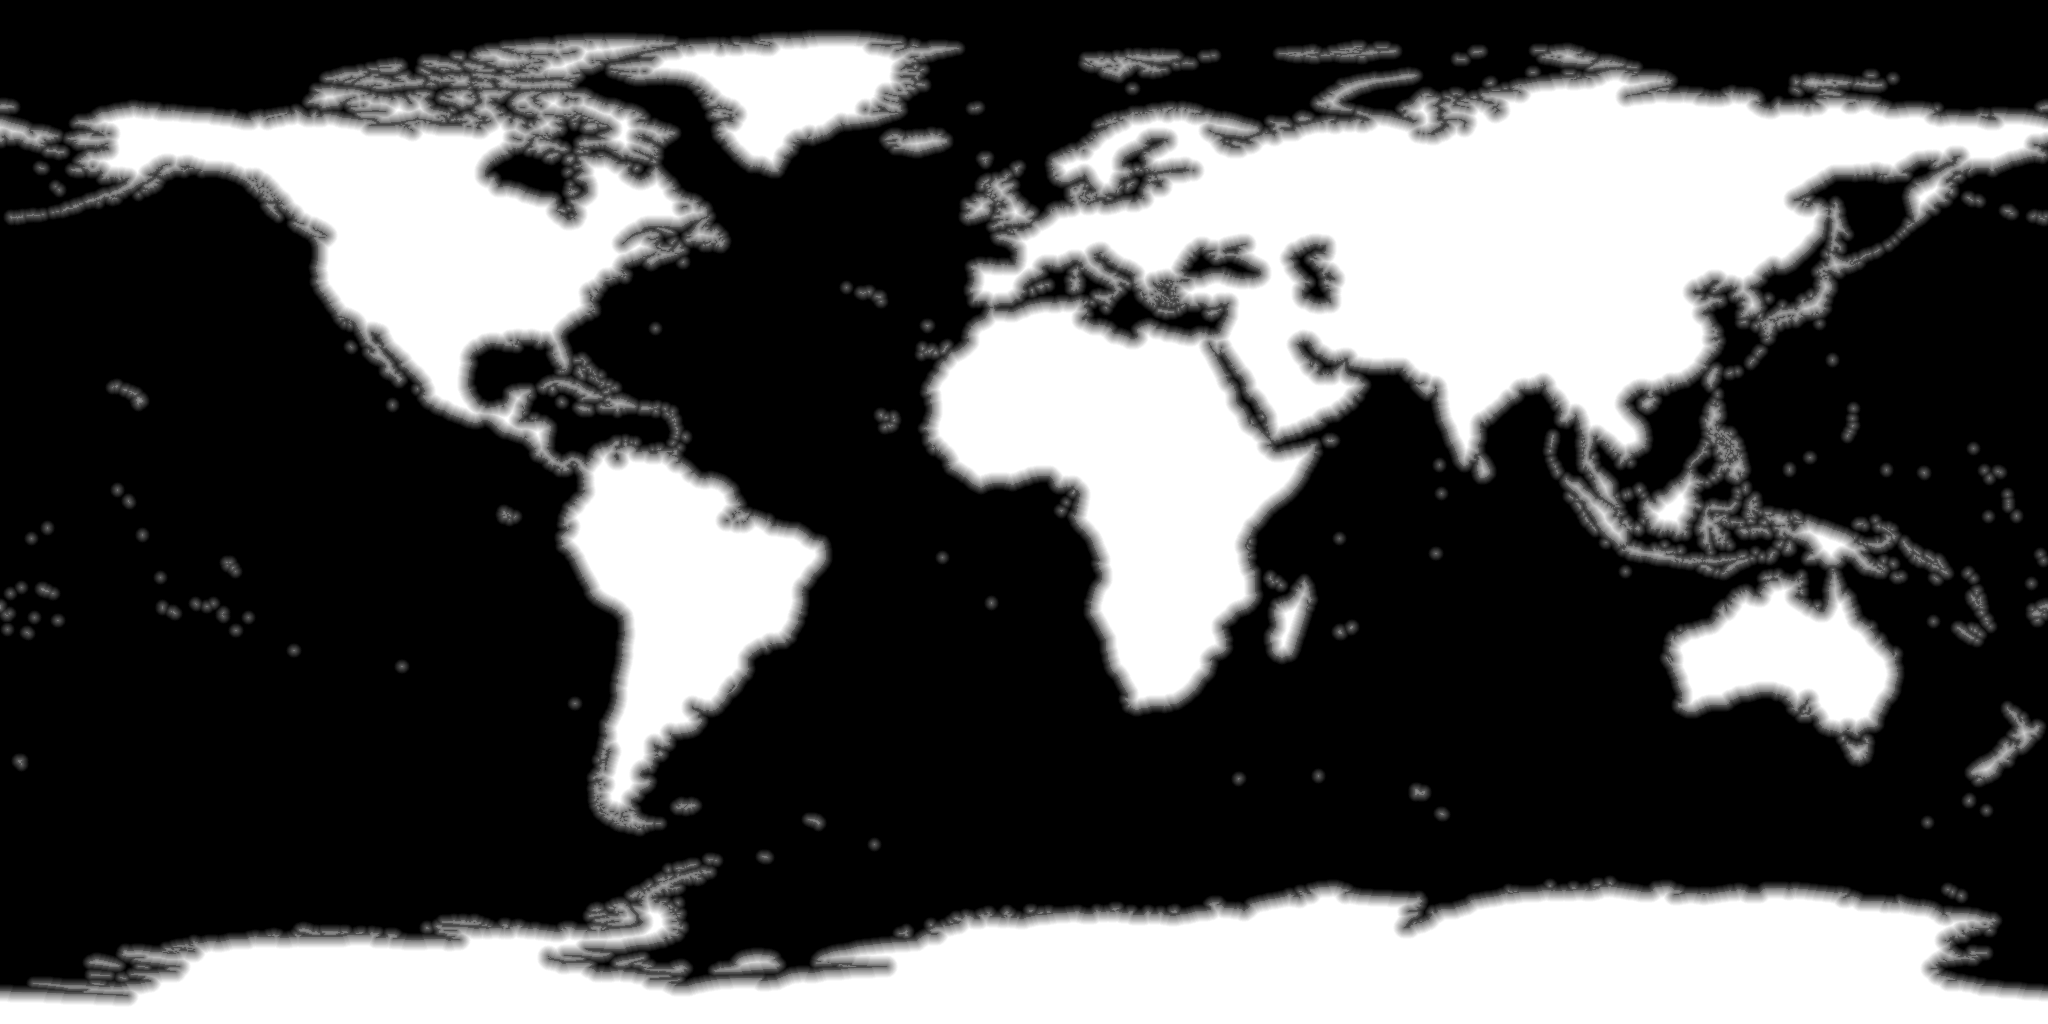
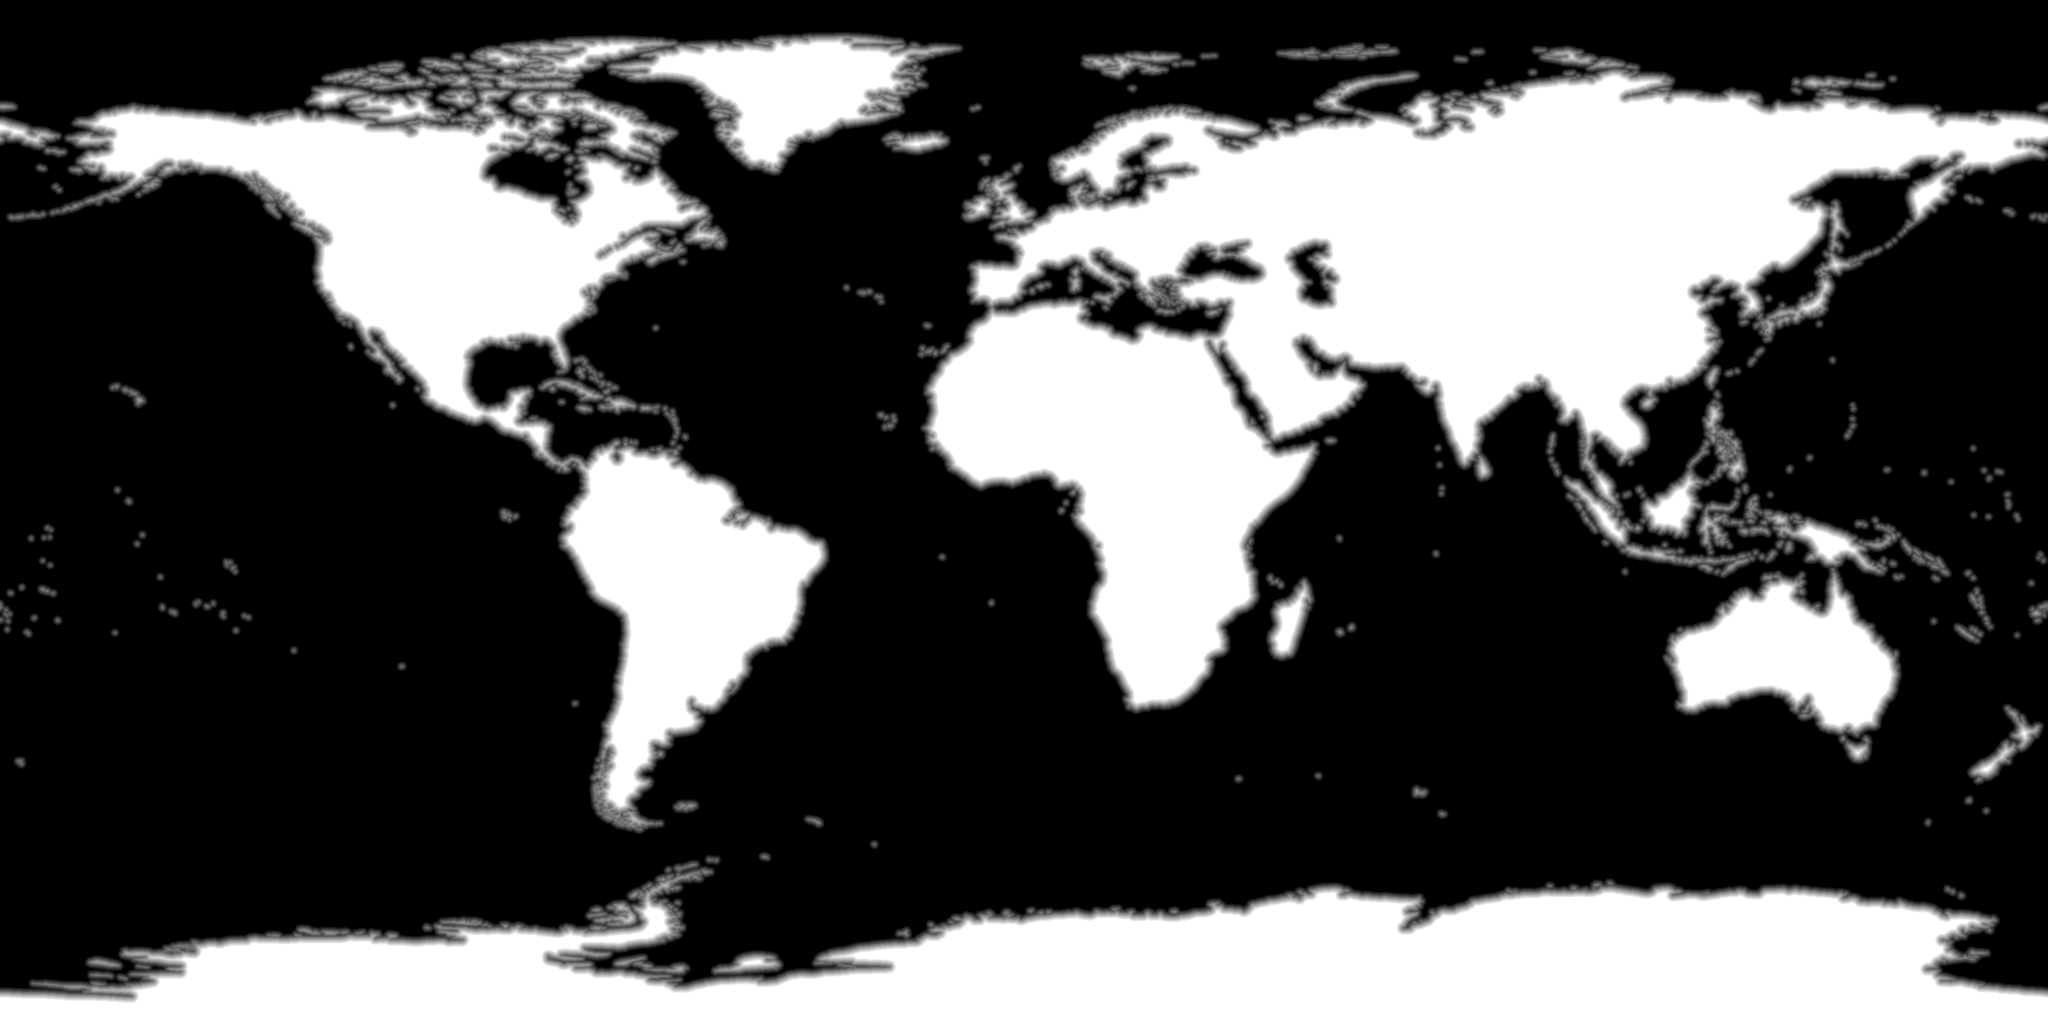
Remove white coastline/horizon outline and add bicubic polar smoothing on hero globe

diff --git a/assets/js/globe.js b/assets/js/globe.js
@@ -1,8 +1,9 @@
-// A1: 실시간 하이엔드 WebGL 지구본
+// 첫 화면 WHO 협력센터 장면: 실시간 WebGL 3D 지구본 (백금 실버-슬레이트 대륙 · 미드나잇 네이비 바다 · 서울 금색 포인트)
+// 장면이 나타날 때 4초 동안 38도를 부드럽게 돌아 자리를 잡고 멈추며, 화면 밖 · 탭 숨김 · '동작 줄이기' 설정에서는 즉시 멈춘다.
 const slide = document.querySelector(".slide--globe");
-if (slide) startGlobeA(slide);
+if (slide) startGlobe(slide);
 
-function startGlobeA(slide) {
+function startGlobe(slide) {
   const CFG = {
     lonRest: 115.0,
     latTilt: 20.0,
@@ -39,6 +40,8 @@ function startGlobeA(slide) {
     uniform float uReady;
 
     const float PI = 3.14159265359;
+    const vec2 TEX_SIZE = vec2(2048.0, 1024.0);
+    const vec2 INV_TEX  = vec2(1.0 / 2048.0, 1.0 / 1024.0);
 
     vec2 camToLonLat(vec3 n) {
       float cl = cos(uAngles.y), sl = sin(uAngles.y);
@@ -50,10 +53,33 @@ function startGlobeA(slide) {
       return vec2(lon, lat);
     }
 
-    float sampleSdf(vec2 lonLat) {
-      float u = fract(lonLat.x / (2.0 * PI) + 0.5);
-      float v = clamp(0.5 - lonLat.y / PI, 0.001, 0.999);
-      return texture2D(uSdf, vec2(u, v)).r;
+    // 4-tap Bicubic B-spline texture lookup: C2 continuous curves even at extreme polar grazing angles
+    float sampleSdfBicubic(vec2 lonLat) {
+      vec2 uv = vec2(fract(lonLat.x / (2.0 * PI) + 0.5), clamp(0.5 - lonLat.y / PI, 0.001, 0.999));
+      vec2 coord = uv * TEX_SIZE - 0.5;
+      vec2 idx = floor(coord);
+      vec2 f = coord - idx;
+      vec2 f2 = f * f;
+      vec2 f3 = f2 * f;
+
+      vec2 w0 = (1.0 - f) * (1.0 - f) * (1.0 - f) / 6.0;
+      vec2 w1 = (3.0 * f3 - 6.0 * f2 + 4.0) / 6.0;
+      vec2 w2 = (-3.0 * f3 + 3.0 * f2 + 3.0 * f + 1.0) / 6.0;
+      vec2 w3 = f3 / 6.0;
+
+      vec2 g0 = w0 + w1;
+      vec2 g1 = w2 + w3;
+      vec2 h0 = ((idx + (w1 / g0) + 0.5) * INV_TEX);
+      vec2 h1 = ((idx + 2.0 + (w3 / g1) + 0.5) * INV_TEX);
+
+      float s00 = texture2D(uSdf, vec2(h0.x, h0.y)).r;
+      float s10 = texture2D(uSdf, vec2(h1.x, h0.y)).r;
+      float s01 = texture2D(uSdf, vec2(h0.x, h1.y)).r;
+      float s11 = texture2D(uSdf, vec2(h1.x, h1.y)).r;
+
+      float sx0 = mix(s10, s00, g0.x);
+      float sx1 = mix(s11, s01, g0.x);
+      return mix(sx1, sx0, g0.y);
     }
 
     void main() {
@@ -62,25 +88,23 @@ function startGlobeA(slide) {
       float r2 = dot(d, d);
       float r = sqrt(r2);
 
-      vec3 L = normalize(vec3(-0.52, 0.56, 0.64));
+      vec3 L = normalize(vec3(-0.50, 0.55, 0.67));
       vec2 limbDir = r > 1e-4 ? d / r : vec2(0.0, -1.0);
-      float sunSide = clamp(dot(vec3(limbDir.x, -limbDir.y, 0.25), L) * 0.65 + 0.45, 0.0, 1.0);
+      float sunSide = clamp(dot(vec3(limbDir.x, -limbDir.y, 0.25), L) * 0.65 + 0.40, 0.0, 1.0);
 
-      vec3 goldAtmo = vec3(0.885, 0.915, 0.968);
-      vec3 navyAtmo = vec3(0.150, 0.245, 0.415);
-      vec3 haloCol = mix(navyAtmo, goldAtmo, pow(sunSide, 1.35));
+      // Soft, deep navy-slate atmospheric halo (NO white halo!)
+      vec3 haloCol = mix(vec3(0.08, 0.15, 0.28), vec3(0.22, 0.35, 0.56), pow(sunSide, 1.4));
 
-      if (r > 1.22) {
+      if (r > 1.18) {
         gl_FragColor = vec4(0.0);
         return;
       }
 
-      float outerFalloff = exp(-max(r - 1.0, 0.0) * 18.0);
-      float outerAlpha = outerFalloff * (0.25 * sunSide + 0.075);
+      float outerFalloff = exp(-max(r - 1.0, 0.0) * 22.0);
+      float outerAlpha = outerFalloff * (0.16 * sunSide + 0.04);
 
       if (r >= 1.0) {
-        float edgeAA = smoothstep(1.0, 0.9965, r);
-        gl_FragColor = vec4(haloCol, outerAlpha * (1.0 - edgeAA));
+        gl_FragColor = vec4(haloCol, outerAlpha);
         return;
       }
 
@@ -89,76 +113,66 @@ function startGlobeA(slide) {
       vec3 V = vec3(0.0, 0.0, 1.0);
 
       vec2 ll = camToLonLat(N);
-      float raw = uReady > 0.5 ? sampleSdf(ll) : 0.0;
-      float sdfPx = (raw - 0.40) * 20.0;
+      // Exact coastline is 5.0 / 12.0 = 0.4166667
+      float raw = uReady > 0.5 ? sampleSdfBicubic(ll) : 0.0;
+      float sdfTex = (raw - 0.4166667) * 12.0;
 
-      // Subtle coastal bevel relief
-      float eps = 0.0017;
-      float sx = uReady > 0.5 ? sampleSdf(ll + vec2(eps / max(cos(ll.y), 0.18), 0.0)) - raw : 0.0;
-      float sy = uReady > 0.5 ? sampleSdf(ll + vec2(0.0, eps)) - raw : 0.0;
-      vec3 bevelN = normalize(N + vec3(-sx * 3.0, -sy * 3.0, 0.0));
+      // Convert texel SDF to local spherical surface distance (correcting equirectangular polar stretch!)
+      float cosLat = max(cos(ll.y), 0.18);
+      float dAng = 1.0 / (uGlobe.z * max(z, 0.14));
+      float aa = clamp((2048.0 / 6.2831853) * dAng / pow(cosLat, 0.55), 0.55, 2.4);
+
+      // Clean, borderless anti-aliased land mask (NO white outline!)
+      float land = smoothstep(-aa * 0.70, aa * 0.70, sdfTex) * step(0.5, uReady);
+      float shelf = smoothstep(-3.8, 0.0, sdfTex) * (1.0 - land) * step(0.5, uReady);
+      float inland = smoothstep(0.0, 4.5, sdfTex);
 
       float diff = clamp(dot(N, L), 0.0, 1.0);
-      float bevelDiff = clamp(dot(bevelN, L), 0.0, 1.0);
 
-      float dAng = 1.0 / (uGlobe.z * max(z, 0.16));
-      float aa = clamp(2048.0 / 6.2831853 * dAng, 0.55, 2.2);
-      float land = smoothstep(-aa * 0.65, aa * 0.65, sdfPx);
-      float shelf = smoothstep(-5.5, 0.0, sdfPx) * (1.0 - land);
-      // Coastal luminosity rim inside continents: slightly brighter near coasts, calm velvet toward deep interior
-      float coastRimGlow = exp(-max(sdfPx, 0.0) * 0.28);
-
-      // Ocean
-      vec3 oceanShadow = vec3(0.024, 0.048, 0.100);
-      vec3 oceanMid    = vec3(0.046, 0.092, 0.178);
-      vec3 oceanLit    = vec3(0.078, 0.148, 0.270);
-      vec3 oceanCol = mix(oceanShadow, oceanMid, smoothstep(0.0, 0.48, diff));
+      // Deep midnight navy ocean
+      vec3 oceanShadow = vec3(0.022, 0.045, 0.096);
+      vec3 oceanMid    = vec3(0.044, 0.088, 0.172);
+      vec3 oceanLit    = vec3(0.074, 0.142, 0.262);
+      vec3 oceanCol = mix(oceanShadow, oceanMid, smoothstep(0.0, 0.50, diff));
       oceanCol = mix(oceanCol, oceanLit, pow(diff, 1.6));
-      oceanCol += vec3(0.025, 0.042, 0.072) * shelf * (0.35 + 0.65 * diff);
+      oceanCol += vec3(0.018, 0.034, 0.062) * shelf * (0.35 + 0.65 * diff);
 
       vec3 Hvec = normalize(L + V);
-      float oceanSpec = pow(max(dot(N, Hvec), 0.0), 28.0) * 0.075;
-      oceanCol += vec3(0.86, 0.90, 0.97) * oceanSpec;
+      float oceanSpec = pow(max(dot(N, Hvec), 0.0), 26.0) * 0.055;
+      oceanCol += vec3(0.55, 0.68, 0.88) * oceanSpec;
 
-      // Continents: refined architectural relief + subtle silk micro-grid (watch-dial guilloche feel)
-      float micro = 0.965 + 0.035 * sin(ll.y * 540.0) * cos(ll.x * 540.0 * max(cos(ll.y), 0.2));
-      vec3 landShadow = vec3(0.165, 0.215, 0.305);
-      vec3 landMid    = vec3(0.345, 0.415, 0.525);
-      vec3 landHi     = vec3(0.615, 0.685, 0.785);
-      vec3 landCol = mix(landShadow, landMid, 0.28 + 0.58 * smoothstep(0.0, 0.80, bevelDiff));
-      landCol = mix(landCol, landHi, (pow(bevelDiff, 1.95) * 0.46 + coastRimGlow * 0.24 * (0.35 + 0.65 * diff)));
-      landCol *= micro;
+      // Smooth satin steel-silver continents (borderless, zero moire, zero white halo)
+      vec3 landShadow = vec3(0.125, 0.178, 0.275);
+      vec3 landMid    = vec3(0.255, 0.335, 0.455);
+      vec3 landHi     = vec3(0.455, 0.545, 0.668);
+      vec3 landCol = mix(landShadow, landMid, 0.26 + 0.62 * smoothstep(0.0, 0.82, diff));
+      landCol = mix(landCol, landHi, pow(diff, 1.85) * 0.48);
+      // Very gentle interior depth (no outline!)
+      landCol *= (0.96 + 0.04 * inland);
 
       vec3 surf = mix(oceanCol, landCol, land);
 
-      // Crisp 1px shoreline highlight
-      float coastLine = 1.0 - smoothstep(0.0, aa * 1.22, abs(sdfPx));
-      vec3 coastCol = mix(vec3(0.68, 0.75, 0.85), vec3(0.96, 0.98, 1.00), smoothstep(0.05, 0.85, diff));
-      surf = mix(surf, coastCol, coastLine * (0.46 + 0.42 * diff) * step(0.5, uReady));
-
-      // Spherical graticule (15 deg)
+      // Delicate spherical graticule (15 deg), fading cleanly toward poles and horizon limb
       float gLon = abs(sin(ll.x * 12.0));
       float gLat = abs(sin(ll.y * 12.0));
-      float wLon = clamp(12.0 * dAng / max(cos(ll.y), 0.15), 0.006, 0.18);
+      float wLon = clamp(12.0 * dAng / max(cosLat, 0.20), 0.006, 0.16);
       float wLat = clamp(12.0 * dAng, 0.006, 0.12);
-      float mer = (1.0 - smoothstep(0.0, wLon * 1.25, gLon)) * smoothstep(1.48, 1.15, abs(ll.y));
-      float par = 1.0 - smoothstep(0.0, wLat * 1.25, gLat);
-      float eq  = 1.0 - smoothstep(0.0, dAng * 1.55, abs(ll.y));
+      float mer = (1.0 - smoothstep(0.0, wLon * 1.25, gLon)) * smoothstep(1.42, 1.08, abs(ll.y));
+      float par = (1.0 - smoothstep(0.0, wLat * 1.25, gLat)) * smoothstep(1.46, 1.20, abs(ll.y));
+      float eq  = 1.0 - smoothstep(0.0, dAng * 1.50, abs(ll.y));
 
-      float limbFade = smoothstep(0.04, 0.38, z);
+      float limbFade = smoothstep(0.08, 0.42, z);
       float gridMask = max(mer, par) * limbFade;
-      surf = mix(surf, mix(vec3(0.75, 0.82, 0.92), vec3(0.93, 0.96, 1.00), land), gridMask * mix(0.11, 0.15, land));
-      surf = mix(surf, vec3(0.82, 0.67, 0.40), eq * limbFade * 0.30);
+      surf = mix(surf, mix(vec3(0.52, 0.64, 0.82), vec3(0.74, 0.82, 0.92), land), gridMask * mix(0.085, 0.105, land));
+      surf = mix(surf, vec3(0.79, 0.64, 0.37), eq * limbFade * 0.26);
 
-      // Fresnel atmospheric rim light
-      float fresnel = pow(1.0 - z, 3.8);
-      vec3 rimCol = mix(vec3(0.17, 0.27, 0.44), vec3(0.89, 0.92, 0.97), pow(sunSide, 1.25));
-      surf += rimCol * fresnel * (0.18 + 0.42 * sunSide);
+      // Restrained navy-blue Fresnel atmosphere (NO white border line!)
+      float fresnel = pow(1.0 - z, 4.2);
+      vec3 rimCol = mix(vec3(0.08, 0.16, 0.30), vec3(0.32, 0.46, 0.68), pow(sunSide, 1.35));
+      surf += rimCol * fresnel * (0.14 + 0.26 * sunSide);
 
-      float rimEdge = smoothstep(0.992, 0.999, r);
-      surf = mix(surf, rimCol * 1.06, rimEdge * (0.24 + 0.38 * sunSide));
-
-      float sphereAA = smoothstep(1.0, 0.9965, r);
+      // Seamless subpixel anti-aliasing at sphere horizon
+      float sphereAA = smoothstep(1.0, 0.9955, r);
       vec3 finalRgb = mix(haloCol, surf, sphereAA);
       float finalA = mix(outerAlpha, 1.0, sphereAA);
       gl_FragColor = vec4(finalRgb, finalA);
@@ -268,7 +282,7 @@ function startGlobeA(slide) {
       ctx.stroke();
 
       const g = ctx.createRadialGradient(p.x, p.y, 1, p.x, p.y, 12);
-      g.addColorStop(0, `rgba(243, 227, 189, ${(0.42 * a).toFixed(3)})`);
+      g.addColorStop(0, `rgba(243, 227, 189, ${(0.40 * a).toFixed(3)})`);
       g.addColorStop(1, "rgba(201, 164, 92, 0)");
       ctx.fillStyle = g;
       ctx.beginPath();
@@ -276,7 +290,7 @@ function startGlobeA(slide) {
       ctx.fill();
 
       ctx.beginPath();
-      ctx.arc(p.x, p.y, 3.1, 0, Math.PI * 2);
+      ctx.arc(p.x, p.y, 3.0, 0, Math.PI * 2);
       ctx.fillStyle = `rgba(246, 232, 198, ${(0.98 * a).toFixed(3)})`;
       ctx.fill();
       ctx.strokeStyle = `rgba(11, 21, 40, ${(0.72 * a).toFixed(3)})`;
